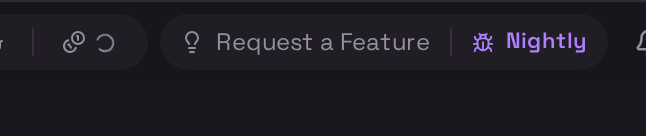
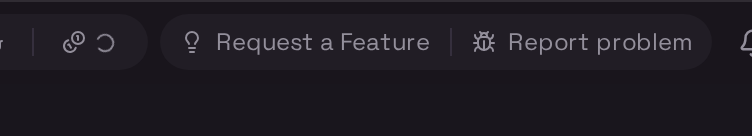
fix(dashboard): make the prerelease report chip read as an action, not a badge
Follow-up to #1996, which merged while its UX review was still advisory-pending.

## Problem

The chip that gives nightly / insider users an always-visible way to report a
problem rendered only a Bug icon plus the lane name -- "Nightly" / "Insider" --
in accent colour at 11px semibold with `tracking-wide`. That is badge typography
carrying a status word, so it read as an identity indicator. The action lived
solely in `title` / `aria-label`.

A tooltip is not discoverability: it requires a hover the user has no reason to
attempt. A first-time prerelease user pattern-matches an accent-coloured channel
word to a status badge, never hovers, and never learns the control is clickable
-- which defeats the entire purpose of the feature #1996 added. Every prerelease
user, every session, permanently.

Second, smaller problem: the chip promised a "bug" report while the flow it opens
is titled "Report a Problem" everywhere else (`ReportProblemModal`, the nav rail
link, Settings > About). A user who clicked had to re-read the dialog to check
they had landed in the right place.

## Fix

The chip is now just the action, styled exactly like its sibling:

    [Lightbulb] Request a Feature | [Bug] Report problem

Same 12px, same muted-to-text hover, no accent, no lane. Matching the sibling is
what makes it read as the second half of ONE control rather than a decoration
hanging off the end -- and an action word in plain button styling is the whole of
what makes it discoverable.
[…]

diff --git a/website/src/components/FeedbackPill.tsx b/website/src/components/FeedbackPill.tsx
@@ -22,11 +22,11 @@ import { i18nT } from '../i18n/t'
  * previously they had to know to look in Settings › About, and on a CLI install
  * that note did not render at all.
  *
- * WHY IT DOUBLES AS AN IDENTITY BADGE. Showing the lane is the reason this
- * cannot be dismissed away like a banner: a prerelease user wants to know which
- * bytes they are running, so the affordance earns its place in the header even
- * on the days nothing is broken — and it is still there weeks later when
- * something finally is.
+ * WHY THE LANE IS NOT ON THE CHIP. It reads as an action, not as a status badge:
+ * the visible text is the action alone, styled identically to its sibling. Which
+ * build the report will be tagged against is real information, but it belongs in
+ * the tooltip — a lane name competing with the action for the eye is what made an
+ * earlier revision read as an identity indicator nobody thought to click.
  */
 export default function FeedbackPill({
   onRequestFeature,
@@ -52,6 +52,15 @@ export default function FeedbackPill({
       ? i18nT('components.feedbackPill.nightly')
       : i18nT('components.feedbackPill.insider')
 
+  // One string for tooltip AND accessible name, so the two can never drift.
+  // Names the flow the way the flow names ITSELF ("Report a Problem" — see
+  // ReportProblemModal): a chip that promises a "bug report" and opens a
+  // "Report a Problem" dialog makes the user re-read the dialog to check they
+  // clicked the right thing.
+  const actionDescription = i18nT('components.feedbackPill.report_problem_on_build', {
+    channel: channelLabel,
+  })
+
   return (
     <div
       data-testid="feedback-pill"
@@ -75,23 +84,25 @@ export default function FeedbackPill({
           <button
             type="button"
             data-testid="prerelease-report-chip"
-            // Accent-toned, not warn/danger: this is a request for help, not a
-            // warning that the install is broken. A first-time reader took a
-            // warn-tinted prerelease note as "something is wrong with my
-            // installation" and would not click it (see AboutPanel).
-            className="flex items-center gap-1.5 h-full px-2.5 text-accent hover:bg-bg-hover transition-colors cursor-pointer text-[11px] font-semibold tracking-wide whitespace-nowrap bg-transparent border-0"
+            // Styled EXACTLY like its sibling: same 12px, same muted-to-text
+            // hover. An earlier revision made this accent-coloured, 11px
+            // semibold, tracking-wide, with the lane name as its only visible
+            // text — badge typography carrying a status word, which read as an
+            // identity indicator, so a first-time user had no reason to click
+            // and the always-visible report entry went undiscovered.
+            //
+            // Matching the sibling is what makes it read as the second half of
+            // one control rather than a decoration hanging off the end.
+            className="flex items-center gap-1.5 h-full px-2.5 text-muted hover:text-text transition-colors cursor-pointer text-[12px] whitespace-nowrap bg-transparent border-0"
             onClick={onReportProblem}
-            // The visible text names the LANE (that is the identity half of the
-            // control); the accessible name and the tooltip name the ACTION, so
-            // the chip is never just an unexplained word to a screen reader.
-            title={i18nT('components.feedbackPill.report_bug_on_build', {
-              channel: channelLabel,
-            })}
-            aria-label={i18nT('components.feedbackPill.report_bug_on_build', {
-              channel: channelLabel,
-            })}
+            // The LANE lives here and only here. Which build a report will be
+            // tagged against is useful but secondary, so it is supplementary
+            // hover detail — not a word competing with the action for the eye.
+            title={actionDescription}
+            aria-label={actionDescription}
           >
-            <Bug size={13} className="lucide-inline" /> {channelLabel}
+            <Bug size={13} className="lucide-inline" />{' '}
+            {i18nT('components.feedbackPill.report_problem')}
           </button>
         </>
       )}

diff --git a/website/src/test/FeedbackPill.test.tsx b/website/src/test/FeedbackPill.test.tsx
@@ -74,19 +74,62 @@ describe('FeedbackPill', () => {
     expect(onReportProblem).not.toHaveBeenCalled()
   })
 
-  it('gives the chip an accessible name that states the ACTION', () => {
-    // The visible text is the lane ("Nightly"), which alone tells a screen
-    // reader nothing about what the button does.
+  it('renders the action as its visible text', () => {
+    // The UX review's finding, pinned. The chip once rendered only a Bug icon
+    // and the lane name ("Nightly") in accent badge type, with the action
+    // confined to the tooltip — which reads as a status badge, so a first-time
+    // prerelease user has no reason to click and the always-visible report entry
+    // is never discovered. A tooltip is not discoverability: it requires a hover
+    // the user has no reason to attempt.
     status.release_channel = 'nightly'
     mount()
-    expect(screen.getByTestId('prerelease-report-chip')).toHaveAccessibleName(
-      /report a bug/i,
+    expect(screen.getByTestId('prerelease-report-chip').textContent).toMatch(
+      /report problem/i,
     )
   })
 
-  it('names the lane the user is actually on', () => {
+  it('gives the chip an accessible name that states the ACTION', () => {
+    status.release_channel = 'nightly'
+    mount()
+    expect(screen.getByTestId('prerelease-report-chip')).toHaveAccessibleName(
+      /report a problem/i,
+    )
+  })
+
+  it('speaks the same name as the flow it opens', () => {
+    // The modal, the nav rail link and Settings › About all call this "Report a
+    // Problem". A chip promising a "bug report" made the user re-read the
+    // dialog to check they had clicked the right thing.
     status.release_channel = 'insider'
     mount()
-    expect(screen.getByTestId('prerelease-report-chip').textContent).toMatch(/insider/i)
+    const chip = screen.getByTestId('prerelease-report-chip')
+    expect(chip.getAttribute('title')).toMatch(/problem/i)
+    expect(chip.textContent).not.toMatch(/\bbug\b/i)
+  })
+
+  it.each(['nightly', 'insider'])(
+    'keeps the %s lane out of the visible text',
+    ch => {
+      // The control is an ACTION, not a status readout. A lane name competing
+      // with the action for the eye is what made the earlier revision read as
+      // an identity badge, so its absence here is the fix — asserted because a
+      // well-meaning "show the user which build they're on" edit would
+      // reintroduce it and every other test would still pass.
+      status.release_channel = ch
+      mount()
+      expect(screen.getByTestId('prerelease-report-chip').textContent).not.toMatch(
+        new RegExp(ch, 'i'),
+      )
+    },
+  )
+
+  it('still names the lane in the tooltip', () => {
+    // Which build a report gets tagged against is real information — it is
+    // supplementary, not absent.
+    status.release_channel = 'nightly'
+    mount()
+    expect(screen.getByTestId('prerelease-report-chip').getAttribute('title')).toMatch(
+      /nightly/i,
+    )
   })
 })
